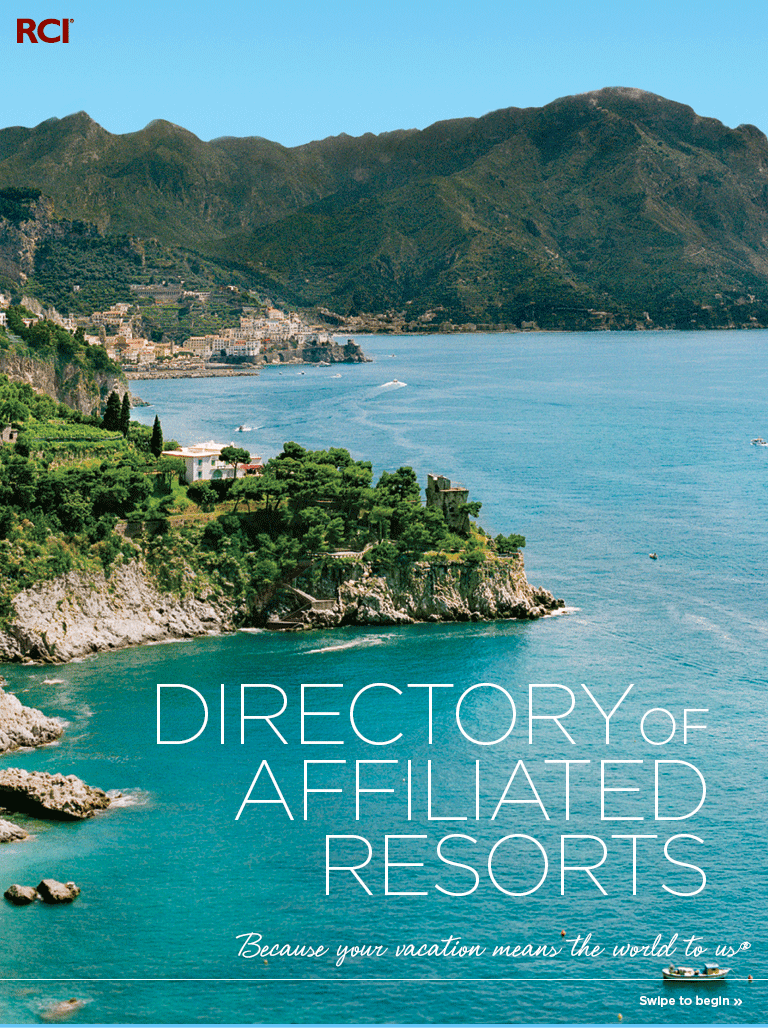
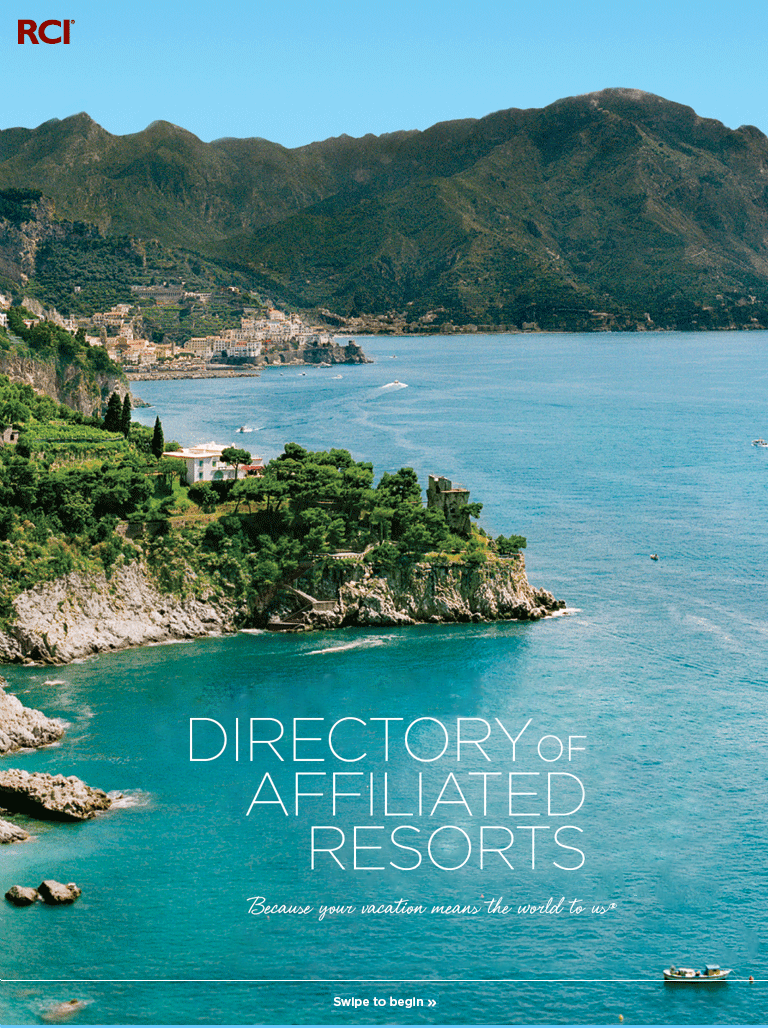
Add UI changes

diff --git a/templates/resort.html b/templates/resort.html
@@ -43,14 +43,14 @@
     <div id="local-info" ng-show="showingLocalInfo">
         <div id="readings">
             <div id="time" style="position:relative">
-                <div style="padding-top:10px"><h1>Local Time:</h1>
+                <div style="padding:10px 0"><h1>Local Time:</h1>
                     <div class="time">{{localTime|date:'shortTime'}}</div>
                     <div class="date">{{localTime|date:'longDate'}}</div>
                 </div>
                 <img src="images/close.png" style="position:absolute;right:10px;top:10px" ng-click="hideLocalInfo()">
             </div>
-            <div id="weather"> <!--    local weather   -->
-                <div class="column"><h1>Local Weather:</h1>
+            <div id="weather" class="row"> <!--    local weather   -->
+                <div class=" col-md-3"><h1>Local Weather:</h1>
                     <div class="weather">
                         <div style="height:45px" ng-if="localWeather.current"><img
                                 ng-src="images/weather/{{localWeather.current.icon}}.png"
@@ -60,7 +60,7 @@
                         </div>
                     </div>
                 </div> <!--    average temps  -->
-                <div class="column"><h1>7-Day Forecast:</h1>
+                <div class=" col-md-7"><h1>7-Day Forecast:</h1>
                     <div class="weather weekly">
                         <div ng-repeat="forecast in localWeather.forecast.data" ng-if="!$first"><h1>
                             {{forecast.time*1000|date:'EEE':localWeather.timezone}}</h1>
@@ -71,7 +71,7 @@
                         </div>
                     </div>
                 </div> <!--    share   -->
-                <div class="column">
+                <div class=" col-md-2">
                     <div class="circle" ng-style="{backgroundColor: region.color}" ng-hide="!online"
                          style="text-align:middle;margin:10% auto"><a href="#"
                                                                       ng-click="showAvailability(resort.resortId)"> TAP
@@ -117,7 +117,7 @@
                 ng-click="showTab($root.config.RESORT_TAB_AREA_EVENTS)">EVENTS</a></div>
     </div>
     <div id="nav-content" ontouchmove="onTouchMove(event)"
-         ng-style="{'height': (720 - ($root.showOfflinePrompt && !online ? 40 : 0) - (showingLocalInfo ? 450 : 0)) + 'px'}">
+         ng-style="{'height': (320 - ($root.showOfflinePrompt && !online ? 40 : 0) - (showingLocalInfo ? 450 : 0)) + 'px'}">
         <ng-include src="$root.baseUrl + 'templates/' + tab + '.html'"></ng-include>
     </div>
     <div id="overlay"

diff --git a/templates/membership.html b/templates/membership.html
@@ -1,10 +1,11 @@
-<div id="membership" class="page" ng-controller="MembershipController" 
+<div id="membership" class="page"  ng-controller="MembershipController" 
 hm-swipe-left="showHome($root.config.ANIMATION_RIGHT_TO_LEFT)" 
-hm-swipe-right="showUserGuidePage($root.config.ANIMATION_LEFT_TO_RIGHT)"> 
+hm-swipe-right="showUserGuidePage($root.config.ANIMATION_LEFT_TO_RIGHT)" > 
 <img src="images/membership/banner.png" style="width:100%;">
+<div >
   <div id="membership-title">Get More With RCI</div>
   <div id="membership-description"> RCI gives you access to more vacation experiences, more travel options and more flexibility in planning and booking your trip. It all adds up to even more value from your RCI® subscribing membership! Here are just some of the vacation opportunities and membership benefits you can take advantage of—<i>because your vacation means the world to us.®</i></div>
-  <div id="membership-buttons">
+  <div id="membership-buttons" >
   <div id="membership-button-0" class="facility_Box"  ng-if="pageNo == 0">
   <div class="row">
   	<div class="col-sm-3 col-xs-6">
@@ -293,6 +294,7 @@ hm-swipe-right="showUserGuidePage($root.config.ANIMATION_LEFT_TO_RIGHT)">
       </table>
     </div>
     <img class="membership-popup-close" src="images/membership/icon_close.png" ng-click="selectPage(0)" ng-if="pageNo != 0 && pageNo != 7 && pageNo != 9"> <img class="membership-popup-close" src="images/membership/icon_close_7.png" ng-click="pageNo == 9 ? selectPage(7) : selectPage(0)" ng-if="pageNo == 7 || pageNo == 9 || pageNo >= 10"> </div>
+</div>
 </div>
 <div class="nav-left-bar" ng-style="{backgroundImage: 'url(images/page-left-black.png)', backgroundRepeat: 'repeat-y'}"></div>
 <div class="nav-right-bar" ng-style="{backgroundImage: 'url(images/page-right-black.png)', backgroundRepeat: 'repeat-y'}"></div>

diff --git a/templates/home.html b/templates/home.html
@@ -6,12 +6,10 @@
 	}
 }
 </style>
-<div id="home" class="page touch" ng-init="clear()"
-     hm-swipe-left="showRegion(findRegionById('gFzwc5gELO'), $root.config.ANIMATION_RIGHT_TO_LEFT)"
-     hm-swipe-right="showRCISubscribingMembershipPage($root.config.ANIMATION_LEFT_TO_RIGHT)"
-     ng-style="{'background-image':'url('+coverImage+')'}" ng-show="coverImage!=null">
+<div id="home" ng-init="clear()" class="page" hm-swipe-left="showRegion(findRegionById('gFzwc5gELO'), $root.config.ANIMATION_RIGHT_TO_LEFT)" hm-swipe-right="showRCISubscribingMembershipPage($root.config.ANIMATION_LEFT_TO_RIGHT)" ng-style="{'background-image':'url('+coverImage+')'}" ng-show="coverImage!=null">
      <div class="wapper">
-    <div id="home-title">
+<div  ontouchmove="onTouchMove(event)"  style="overflow: hidden;overflow-y: auto;">
+		<div id="home-title">
         <div id="home-title-inline">
             <div id="home-title-text">RCI® DIRECTORY <span class="small">OF</span> AFFILIATED RESORTS</div>
         </div>
@@ -27,7 +25,7 @@
             </div>
         </form>
     </div>
-    <div id="home-regions" ng-show="regions.length > 0">
+    <div id="home-regions"  ng-show="regions.length > 0">
         <div id="region-usa" class="pull-left">
             <div class="region-title">UNITED STATES:</div>
             <div ng-repeat="r in $root.config.REGIONS['usa']">
@@ -53,9 +51,9 @@
     <div class="tag-cnt">
      <img ng-src="{{$root.baseUrl + 'images/background/home_3.png'}}">
 	</div>
-</div>                                                                                               
 </div>
-
+</div>
+</div>
 <div class="nav-left-bar"
      ng-style="{backgroundImage: 'url(images/page-left-black.png)', backgroundRepeat: 'repeat-y'}"></div>
 <div class="nav-right-bar"

diff --git a/styles/overwrite.css b/styles/overwrite.css
@@ -137,6 +137,7 @@ body, html{
 }
 .modal.fade.in {
     left: 45%;
+	background: none;
 }
 
 /* - min-width: 768 */
@@ -165,7 +166,7 @@ body, html{
     max-width: 390px;
 }
 .modal.fade.in {
-    left: 20%;
+    left: 10%;
 	text-align:center;
 	background: none;
 }
@@ -195,7 +196,7 @@ body, html{
 #title-bar-text {
     width: 100%;
     height: 100%;
-    font-size: 1.5em;
+    font-size: 1.2em;
 }
 .circle {
     width: 80px;
@@ -236,7 +237,24 @@ body, html{
     left: unset;
     background: none !important;
 }
-	
+#local-info #readings{
+	height:auto;	
+}
+.regions-buttons-text{
+	font-size:14px;	
+}
+#membership-title {
+    padding: 13px 10px 0 10px;	
+	line-height: 62px;
+}
+#home-jump-input input{
+	background-color: rgba(255, 255, 255, 0.4);
+	}
+#home-jump-input input {
+    font-weight: 550;
+	    text-align: center;
+}
+
 }
 @media (max-width: 685px) {
 	#tab-nav a {
@@ -265,10 +283,11 @@ body, html{
 	#home-jump-input input{
 		margin: 0 auto;
 	float: none;
+	background-color: rgba(255, 255, 255, 0.4);
 	}
 	#home-regions {
     height: 100%;
-    padding-top: 360px;
+    padding-top: 260px;
 	}
 }
 @media (min-width: 2500px) {

diff --git a/index.html b/index.html
@@ -17,7 +17,7 @@
        main.js dynamically loads body.html so updates can be made for hosted
        files without having to create a new viewer.
     --><script src="main.js"></script>
-<body ng-controller="MainController" ontouchstart="" ng-class="{offline: !$root.online}" ng-init="init()">
+<body ng-controller="MainController" ontouchstart="" ng-class="{offline: !$root.online}" ng-init="init()"  ontouchmove="onTouchMove(event)">
 <ng-include src="'templates/body.html'"></ng-include>
 <script>(function(i,s,o,g,r,a,m){i['GoogleAnalyticsObject']=r;i[r]=i[r]||function(){
     (i[r].q=i[r].q||[]).push(arguments)},i[r].l=1*new Date();a=s.createElement(o),

diff --git a/templates/welcome.html b/templates/welcome.html
@@ -1,7 +1,7 @@
  
-  <div class="row">
+  <div class="row" hm-swipe-left="showUserGuidePage($root.config.ANIMATION_RIGHT_TO_LEFT)" hm-swipe-right="showCoverPage($root.config.ANIMATION_LEFT_TO_RIGHT)">
   <div class="col-md-12">
-  <div id="welcome" class="page" hm-swipe-left="showUserGuidePage($root.config.ANIMATION_RIGHT_TO_LEFT)" hm-swipe-right="showCoverPage($root.config.ANIMATION_LEFT_TO_RIGHT)">
+  <div id="welcome" class="page" >
   <img src="./images/background/welcome.png" />
   </div>
   <div class="col-md-12">

diff --git a/js/app.js b/js/app.js
@@ -56,6 +56,9 @@ app.run(function($rootScope, $window, $modal, $analytics, safeApply, CONFIG) {
     $rootScope.showMenu = false;
     $rootScope.saveAndRestoreState = false;
     $rootScope.helpOverlayShown = false;
+	$rootScope.screenHeight = screen.availHeight;
+
+
 
     //  see if we're online or not
     $rootScope.isOnline = function() {
